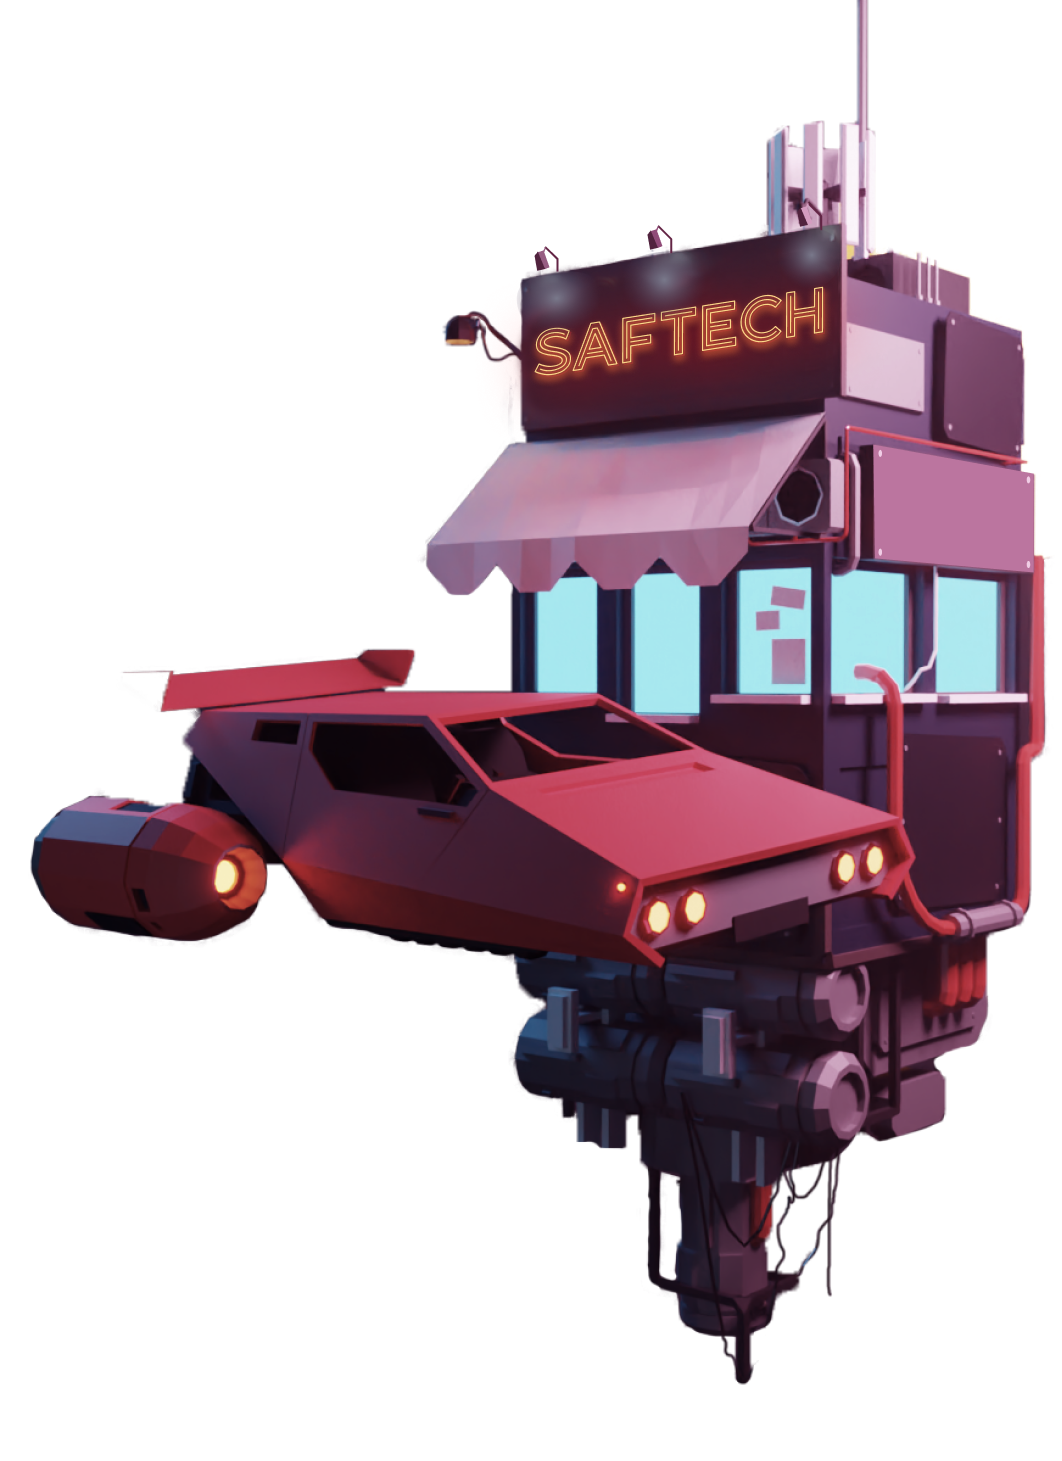
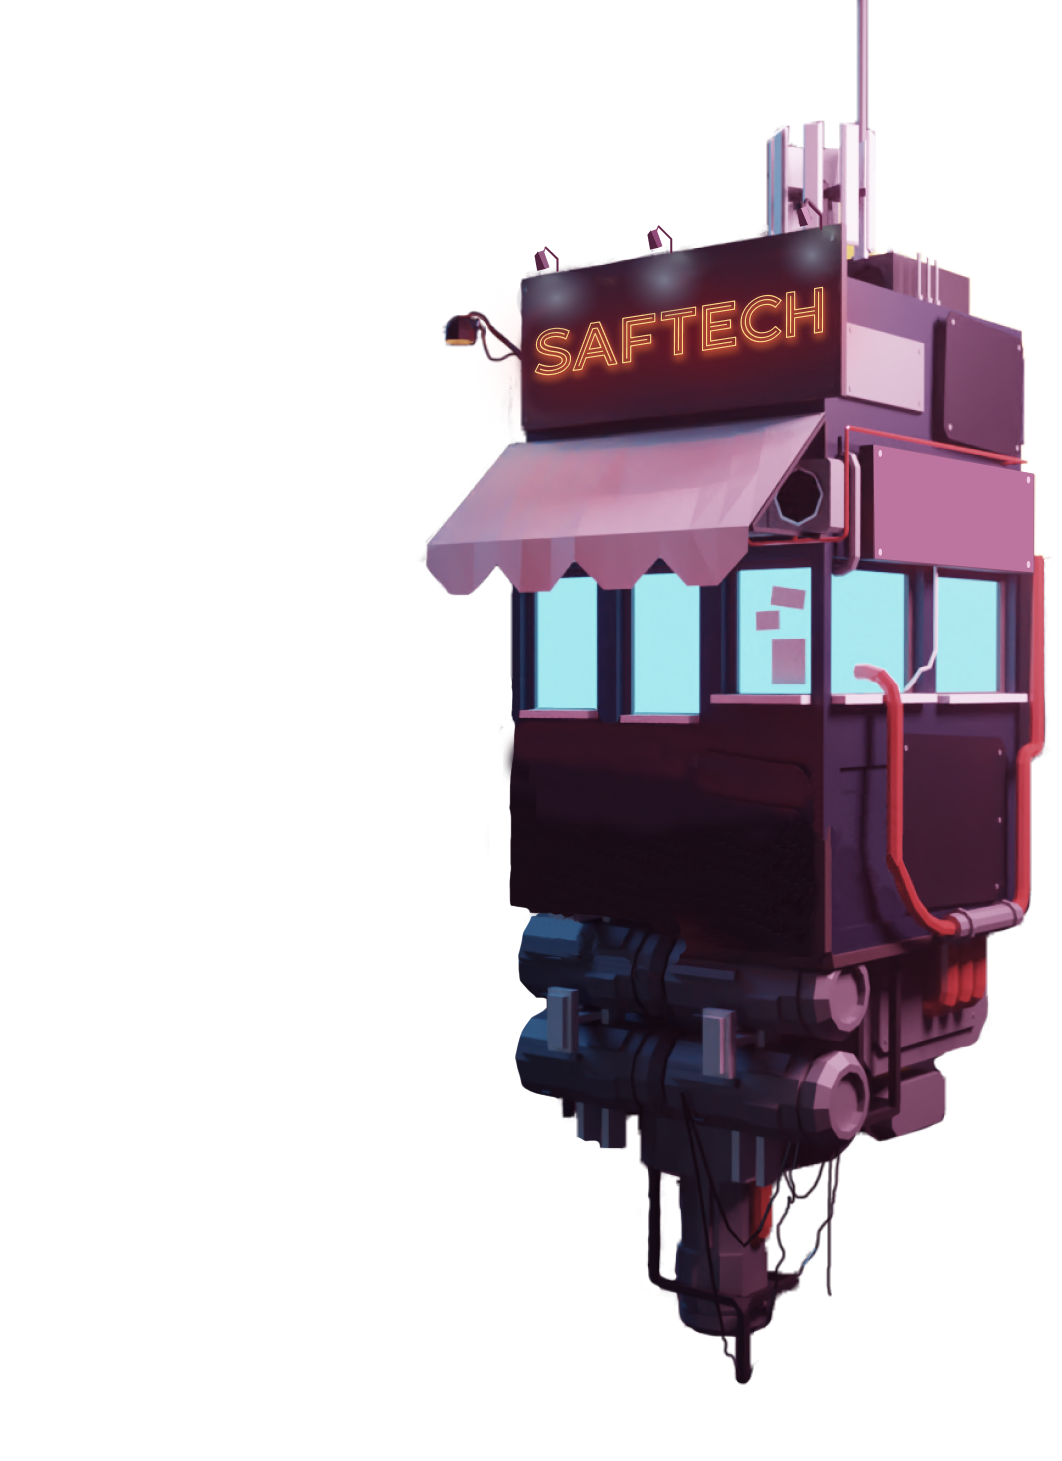
Bubble прототип на десктоп почти готов

Changed region(s): [[0.0311, 0.4312, 0.8701, 0.7084]]

diff --git a/index.html b/index.html
@@ -99,14 +99,11 @@
                     и бизнес потребностей.
                 </p>
             </div>
-            <div class="circles">
-                <img src="img/circle-1.png" alt="">
-                <img src="img/circle-2.png" alt="">
-            </div>
         </div>
         <div class="main__progress">
             <div class="container">
-                <img src="img/results.png" alt="" width="531">
+                <img src="img/results.png" alt="">
+                <img src="img/flying-car.png" alt="">
                 <div class="progress-text">
                     <img src="img/results.svg" alt="">
                     <p>
@@ -132,6 +129,7 @@
             </div>
         </div>
         <div id="feedback" class="main__feedback">
+            <img class="feedback-back" src="img/background-2.png" alt="">
             <div class="container">
                 <img src="img/feedback.svg" alt="">
                 <div class="flex-wrap">
@@ -232,10 +230,6 @@
                             <span>Посмотрите наши работы</span>
                             <span>Посмотрите наши работы</span>
                         </a>
-                    </div>
-                    <div class="circles">
-                        <img class="feedback__image mobile-hidden" src="img/circle-2.png" alt="">
-                        <img class="feedback__image mobile-hidden" src="img/circle-3.png" alt="">
                     </div>
                 </div>
             </div>

diff --git a/css/main.css b/css/main.css
@@ -81,6 +81,10 @@ textarea {
     margin-bottom: 31px
 }
 
+#app {
+    overflow: hidden;
+}
+
 .container {
     max-width: 1174px;
     margin: auto;
@@ -244,6 +248,28 @@ textarea {
 
 .main__progress .container {
     display: flex;
+    position: relative;
+}
+
+.main__progress img:nth-of-type(1) {
+    width: 531px;
+}
+
+.main__progress img:nth-of-type(2) {
+    position: absolute;
+    width: 446px;
+    top: 300px;
+    left: 18px;
+    animation: levitate 2s ease infinite;
+}
+
+@keyframes levitate {
+    50% {
+        top: 260px;
+    }
+    100% {
+        top: 300px;
+    }
 }
 
 .main__progress p {
@@ -268,6 +294,17 @@ textarea {
 .main__feedback {
     padding-bottom: 109px;
     padding-top: 130px;
+    position: relative;
+}
+
+.main__feedback .container > img:nth-of-type(1) {
+    position: relative;
+}
+
+.feedback-back {
+    position: absolute;
+    right: 0;
+    top: 300px;
 }
 
 .main__feedback .flex-wrap {
